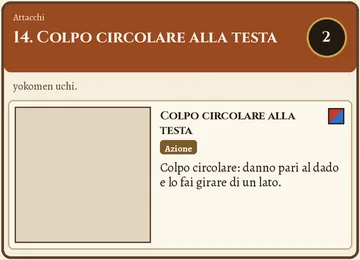
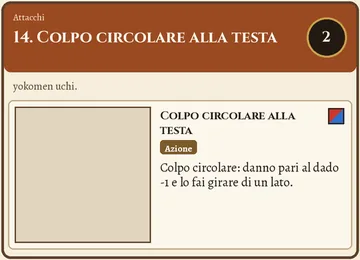
Bilanciamento mani nude: colpi 13-18 un punto più leggeri (duelli validi dal 52% al 66%)
Claude-Session: https://claude.ai/code/session_01KonsJkBUDMDCCvh9YpWPvr

Changed region(s): [[0.4278, 0.6769, 0.825, 0.7385]]

diff --git a/tools/carte_aikido.py b/tools/carte_aikido.py
@@ -66,18 +66,18 @@ ATTACCHI = {
          "Solo da dietro. Immobilizzazione alta: danno 1 e stordisci tre dadi."),
     12: ("Cintura bassa da dietro", "ushiro tori", "presa", [["rosso"], ["verde"]], {"fisso": 1, "blocca": 2, "svantaggi": 1, "dorsale": True},
          "Solo da dietro. Immobilizzazione bassa: danno 1, stordisci due dadi, 1 svantaggio."),
-    13: ("Colpo diretto alla testa", "shomen uchi", "colpo", [["rosso"]], {"valore": "primo"},
-         "Colpo dall'alto: danno pari al dado."),
-    14: ("Colpo circolare alla testa", "yokomen uchi", "colpo", [RB], {"valore": "primo", "gira": 1},
-         "Colpo circolare: danno pari al dado e lo fai girare di un lato."),
-    15: ("Colpo all'addome", "mune tsuki", "colpo", [["rosso"]], {"valore": "primo", "blocca": 1, "cond": {"min": 3}},
-         "Dado 3+. Pugno all'addome: danno pari al dado e gli togli il fiato (stordisci un dado)."),
+    13: ("Colpo diretto alla testa", "shomen uchi", "colpo", [["rosso"]], {"valore": "primo", "bonus": -1},
+         "Colpo dall'alto: danno pari al dado -1."),
+    14: ("Colpo circolare alla testa", "yokomen uchi", "colpo", [RB], {"valore": "primo", "bonus": -1, "gira": 1},
+         "Colpo circolare: danno pari al dado -1 e lo fai girare di un lato."),
+    15: ("Colpo all'addome", "mune tsuki", "colpo", [["rosso"]], {"valore": "primo", "bonus": -1, "blocca": 1, "cond": {"min": 3}},
+         "Dado 3+. Pugno all'addome: danno pari al dado -1 e gli togli il fiato (stordisci un dado)."),
     16: ("Presa con presa", "", "combinazione", [RB, RB], {"fisso": 1, "blocca": 2, "svantaggi": 1},
          "Due prese di fila: danno 1, stordisci due dadi, 1 svantaggio."),
-    17: ("Presa con colpo", "", "combinazione", [RB, ["rosso"]], {"valore": "secondo", "bonus": 1, "blocca": 1},
-         "Lo tieni e colpisci: danno pari al secondo dado +1, stordisci un dado."),
-    18: ("Colpo con colpo", "", "combinazione", [["rosso"], ["rosso"]], {"valore": "somma", "div": 2, "bonus": 1, "non_schivabile": True},
-         "Due colpi rapidi: danno metà della somma +1, non si schiva."),
+    17: ("Presa con colpo", "", "combinazione", [RB, ["rosso"]], {"valore": "secondo", "blocca": 1},
+         "Lo tieni e colpisci: danno pari al secondo dado, stordisci un dado."),
+    18: ("Colpo con colpo", "", "combinazione", [["rosso"], ["rosso"]], {"valore": "somma", "div": 2, "non_schivabile": True},
+         "Due colpi rapidi: danno metà della somma, non si schiva."),
 }
 
 
